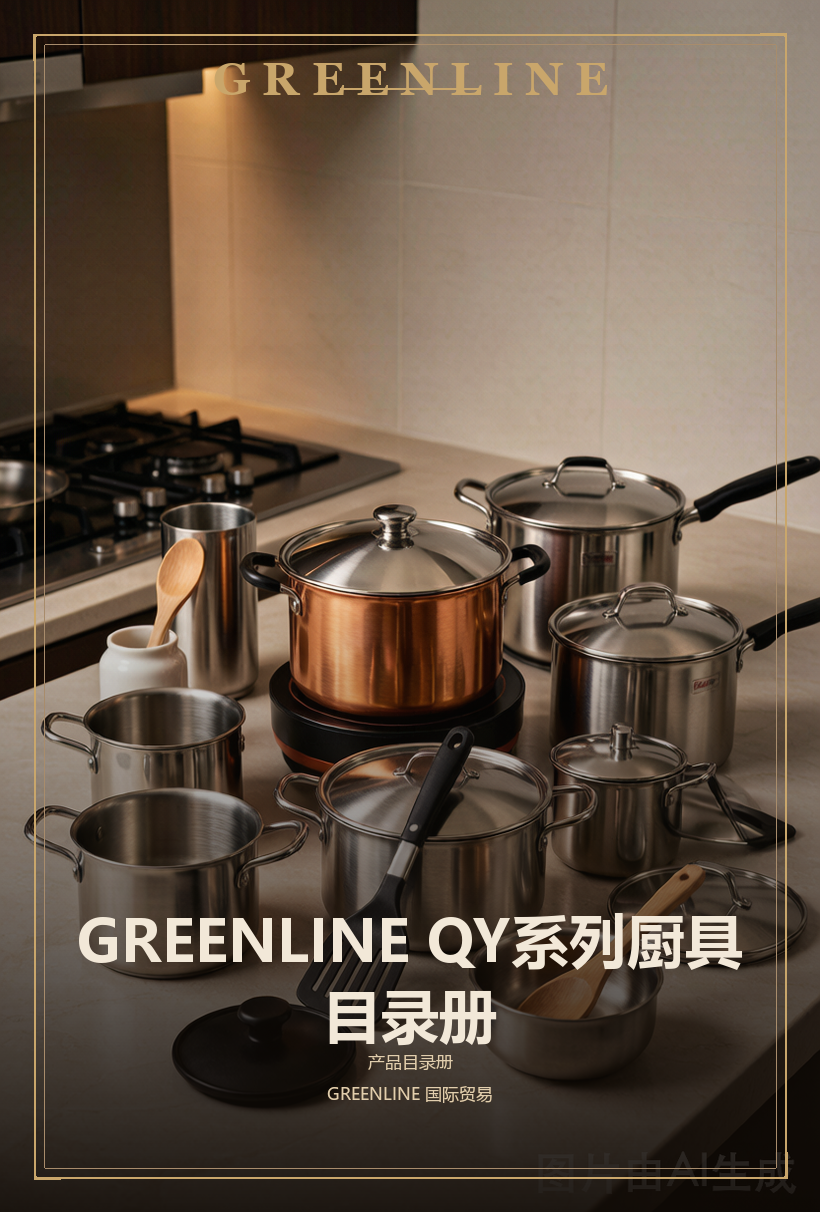
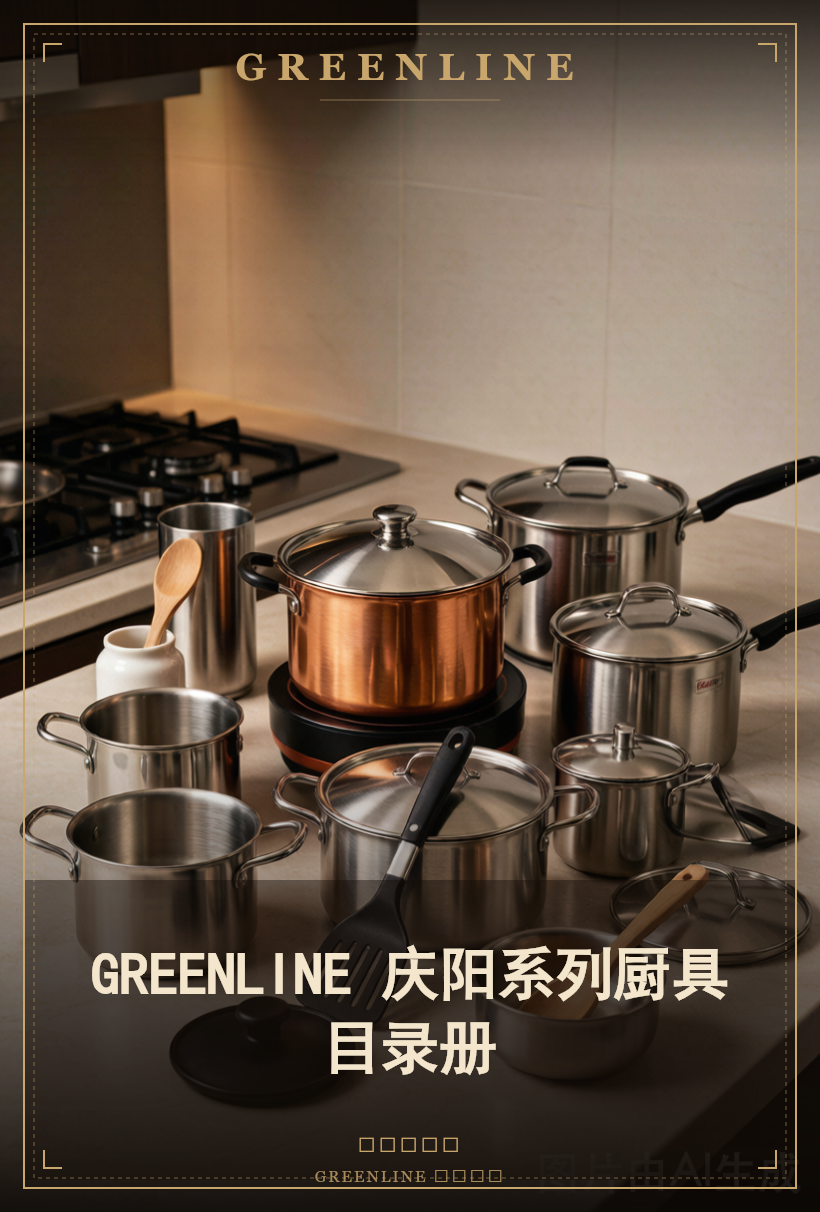
Revert qingyang kitchenware catalogue to original (undo QY branding from 40644b8)

diff --git a/catalog/qingyang/data.js b/catalog/qingyang/data.js
@@ -1,6 +1,6 @@
 window.FLIP = {
-  title_cn: "GREENLINE QY系列厨具目录册",
-  title_en: "GREENLINE QY Kitchenware Catalogue",
+  title_cn: "GREENLINE 庆阳系列厨具目录册",
+  title_en: "GREENLINE Qingyang Kitchenware Catalogue",
   total: 196,
   images: ["pages/full/p001.webp","pages/full/p002.webp","pages/full/p003.webp","pages/full/p004.webp","pages/full/p005.webp","pages/full/p006.webp","pages/full/p007.webp","pages/full/p008.webp","pages/full/p009.webp","pages/full/p010.webp","pages/full/p011.webp","pages/full/p012.webp","pages/full/p013.webp","pages/full/p014.webp","pages/full/p015.webp","pages/full/p016.webp","pages/full/p017.webp","pages/full/p018.webp","pages/full/p019.webp","pages/full/p020.webp","pages/full/p021.webp","pages/full/p022.webp","pages/full/p023.webp","pages/full/p024.webp","pages/full/p025.webp","pages/full/p026.webp","pages/full/p027.webp","pages/full/p028.webp","pages/full/p029.webp","pages/full/p030.webp","pages/full/p031.webp","pages/full/p032.webp","pages/full/p033.webp","pages/full/p034.webp","pages/full/p035.webp","pages/full/p036.webp","pages/full/p037.webp","pages/full/p038.webp","pages/full/p039.webp","pages/full/p040.webp","pages/full/p041.webp","pages/full/p042.webp","pages/full/p043.webp","pages/full/p044.webp","pages/full/p045.webp","pages/full/p046.webp","pages/full/p047.webp","pages/full/p048.webp","pages/full/p049.webp","pages/full/p050.webp","pages/full/p051.webp","pages/full/p052.webp","pages/full/p053.webp","pages/full/p054.webp","pages/full/p055.webp","pages/full/p056.webp","pages/full/p057.webp","pages/full/p058.webp","pages/full/p059.webp","pages/full/p060.webp","pages/full/p061.webp","pages/full/p062.webp","pages/full/p063.webp","pages/full/p064.webp","pages/full/p065.webp","pages/full/p066.webp","pages/full/p067.webp","pages/full/p068.webp","pages/full/p069.webp","pages/full/p070.webp","pages/full/p071.webp","pages/full/p072.webp","pages/full/p073.webp","pages/full/p074.webp","pages/full/p075.webp","pages/full/p076.webp","pages/full/p077.webp","pages/full/p078.webp","pages/full/p079.webp","pages/full/p080.webp","pages/full/p081.webp","pages/full/p082.webp","pages/full/p083.webp","pages/full/p084.webp","pages/full/p085.webp","pages/full/p086.webp","pages/full/p087.webp","pages/full/p088.webp","pages/full/p089.webp","pages/full/p090.webp","pages/full/p091.webp","pages/full/p092.webp","pages/full/p093.webp","pages/full/p094.webp","pages/full/p095.webp","pages/full/p096.webp","pages/full/p097.webp","pages/full/p098.webp","pages/full/p099.webp","pages/full/p100.webp","pages/full/p101.webp","pages/full/p102.webp","pages/full/p103.webp","pages/full/p104.webp","pages/full/p105.webp","pages/full/p106.webp","pages/full/p107.webp","pages/full/p108.webp","pages/full/p109.webp","pages/full/p110.webp","pages/full/p111.webp","pages/full/p112.webp","pages/full/p113.webp","pages/full/p114.webp","pages/full/p115.webp","pages/full/p116.webp","pages/full/p117.webp","pages/full/p118.webp","pages/full/p119.webp","pages/full/p120.webp","pages/full/p121.webp","pages/full/p122.webp","pages/full/p123.webp","pages/full/p124.webp","pages/full/p125.webp","pages/full/p126.webp","pages/full/p127.webp","pages/full/p128.webp","pages/full/p129.webp","pages/full/p130.webp","pages/full/p131.webp","pages/full/p132.webp","pages/full/p133.webp","pages/full/p134.webp","pages/full/p135.webp","pages/full/p136.webp","pages/full/p137.webp","pages/full/p138.webp","pages/full/p139.webp","pages/full/p140.webp","pages/full/p141.webp","pages/full/p142.webp","pages/full/p143.webp","pages/full/p144.webp","pages/full/p145.webp","pages/full/p146.webp","pages/full/p147.webp","pages/full/p148.webp","pages/full/p149.webp","pages/full/p150.webp","pages/full/p151.webp","pages/full/p152.webp","pages/full/p153.webp","pages/full/p154.webp","pages/full/p155.webp","pages/full/p156.webp","pages/full/p157.webp","pages/full/p158.webp","pages/full/p159.webp","pages/full/p160.webp","pages/full/p161.webp","pages/full/p162.webp","pages/full/p163.webp","pages/full/p164.webp","pages/full/p165.webp","pages/full/p166.webp","pages/full/p167.webp","pages/full/p168.webp","pages/full/p169.webp","pages/full/p170.webp","pages/full/p171.webp","pages/full/p172.webp","pages/full/p173.webp","pages/full/p174.webp","pages/full/p175.webp","pages/full/p176.webp","pages/full/p177.webp","pages/full/p178.webp","pages/full/p179.webp","pages/full/p180.webp","pages/full/p181.webp","pages/full/p182.webp","pages/full/p183.webp","pages/full/p184.webp","pages/full/p185.webp","pages/full/p186.webp","pages/full/p187.webp","pages/full/p188.webp","pages/full/p189.webp","pages/full/p190.webp","pages/full/p191.webp","pages/full/p192.webp","pages/full/p193.webp","pages/full/p194.webp","pages/full/p195.webp","pages/full/p196.webp"],
   thumbs: ["pages/thumbs/p001.webp","pages/thumbs/p002.webp","pages/thumbs/p003.webp","pages/thumbs/p004.webp","pages/thumbs/p005.webp","pages/thumbs/p006.webp","pages/thumbs/p007.webp","pages/thumbs/p008.webp","pages/thumbs/p009.webp","pages/thumbs/p010.webp","pages/thumbs/p011.webp","pages/thumbs/p012.webp","pages/thumbs/p013.webp","pages/thumbs/p014.webp","pages/thumbs/p015.webp","pages/thumbs/p016.webp","pages/thumbs/p017.webp","pages/thumbs/p018.webp","pages/thumbs/p019.webp","pages/thumbs/p020.webp","pages/thumbs/p021.webp","pages/thumbs/p022.webp","pages/thumbs/p023.webp","pages/thumbs/p024.webp","pages/thumbs/p025.webp","pages/thumbs/p026.webp","pages/thumbs/p027.webp","pages/thumbs/p028.webp","pages/thumbs/p029.webp","pages/thumbs/p030.webp","pages/thumbs/p031.webp","pages/thumbs/p032.webp","pages/thumbs/p033.webp","pages/thumbs/p034.webp","pages/thumbs/p035.webp","pages/thumbs/p036.webp","pages/thumbs/p037.webp","pages/thumbs/p038.webp","pages/thumbs/p039.webp","pages/thumbs/p040.webp","pages/thumbs/p041.webp","pages/thumbs/p042.webp","pages/thumbs/p043.webp","pages/thumbs/p044.webp","pages/thumbs/p045.webp","pages/thumbs/p046.webp","pages/thumbs/p047.webp","pages/thumbs/p048.webp","pages/thumbs/p049.webp","pages/thumbs/p050.webp","pages/thumbs/p051.webp","pages/thumbs/p052.webp","pages/thumbs/p053.webp","pages/thumbs/p054.webp","pages/thumbs/p055.webp","pages/thumbs/p056.webp","pages/thumbs/p057.webp","pages/thumbs/p058.webp","pages/thumbs/p059.webp","pages/thumbs/p060.webp","pages/thumbs/p061.webp","pages/thumbs/p062.webp","pages/thumbs/p063.webp","pages/thumbs/p064.webp","pages/thumbs/p065.webp","pages/thumbs/p066.webp","pages/thumbs/p067.webp","pages/thumbs/p068.webp","pages/thumbs/p069.webp","pages/thumbs/p070.webp","pages/thumbs/p071.webp","pages/thumbs/p072.webp","pages/thumbs/p073.webp","pages/thumbs/p074.webp","pages/thumbs/p075.webp","pages/thumbs/p076.webp","pages/thumbs/p077.webp","pages/thumbs/p078.webp","pages/thumbs/p079.webp","pages/thumbs/p080.webp","pages/thumbs/p081.webp","pages/thumbs/p082.webp","pages/thumbs/p083.webp","pages/thumbs/p084.webp","pages/thumbs/p085.webp","pages/thumbs/p086.webp","pages/thumbs/p087.webp","pages/thumbs/p088.webp","pages/thumbs/p089.webp","pages/thumbs/p090.webp","pages/thumbs/p091.webp","pages/thumbs/p092.webp","pages/thumbs/p093.webp","pages/thumbs/p094.webp","pages/thumbs/p095.webp","pages/thumbs/p096.webp","pages/thumbs/p097.webp","pages/thumbs/p098.webp","pages/thumbs/p099.webp","pages/thumbs/p100.webp","pages/thumbs/p101.webp","pages/thumbs/p102.webp","pages/thumbs/p103.webp","pages/thumbs/p104.webp","pages/thumbs/p105.webp","pages/thumbs/p106.webp","pages/thumbs/p107.webp","pages/thumbs/p108.webp","pages/thumbs/p109.webp","pages/thumbs/p110.webp","pages/thumbs/p111.webp","pages/thumbs/p112.webp","pages/thumbs/p113.webp","pages/thumbs/p114.webp","pages/thumbs/p115.webp","pages/thumbs/p116.webp","pages/thumbs/p117.webp","pages/thumbs/p118.webp","pages/thumbs/p119.webp","pages/thumbs/p120.webp","pages/thumbs/p121.webp","pages/thumbs/p122.webp","pages/thumbs/p123.webp","pages/thumbs/p124.webp","pages/thumbs/p125.webp","pages/thumbs/p126.webp","pages/thumbs/p127.webp","pages/thumbs/p128.webp","pages/thumbs/p129.webp","pages/thumbs/p130.webp","pages/thumbs/p131.webp","pages/thumbs/p132.webp","pages/thumbs/p133.webp","pages/thumbs/p134.webp","pages/thumbs/p135.webp","pages/thumbs/p136.webp","pages/thumbs/p137.webp","pages/thumbs/p138.webp","pages/thumbs/p139.webp","pages/thumbs/p140.webp","pages/thumbs/p141.webp","pages/thumbs/p142.webp","pages/thumbs/p143.webp","pages/thumbs/p144.webp","pages/thumbs/p145.webp","pages/thumbs/p146.webp","pages/thumbs/p147.webp","pages/thumbs/p148.webp","pages/thumbs/p149.webp","pages/thumbs/p150.webp","pages/thumbs/p151.webp","pages/thumbs/p152.webp","pages/thumbs/p153.webp","pages/thumbs/p154.webp","pages/thumbs/p155.webp","pages/thumbs/p156.webp","pages/thumbs/p157.webp","pages/thumbs/p158.webp","pages/thumbs/p159.webp","pages/thumbs/p160.webp","pages/thumbs/p161.webp","pages/thumbs/p162.webp","pages/thumbs/p163.webp","pages/thumbs/p164.webp","pages/thumbs/p165.webp","pages/thumbs/p166.webp","pages/thumbs/p167.webp","pages/thumbs/p168.webp","pages/thumbs/p169.webp","pages/thumbs/p170.webp","pages/thumbs/p171.webp","pages/thumbs/p172.webp","pages/thumbs/p173.webp","pages/thumbs/p174.webp","pages/thumbs/p175.webp","pages/thumbs/p176.webp","pages/thumbs/p177.webp","pages/thumbs/p178.webp","pages/thumbs/p179.webp","pages/thumbs/p180.webp","pages/thumbs/p181.webp","pages/thumbs/p182.webp","pages/thumbs/p183.webp","pages/thumbs/p184.webp","pages/thumbs/p185.webp","pages/thumbs/p186.webp","pages/thumbs/p187.webp","pages/thumbs/p188.webp","pages/thumbs/p189.webp","pages/thumbs/p190.webp","pages/thumbs/p191.webp","pages/thumbs/p192.webp","pages/thumbs/p193.webp","pages/thumbs/p194.webp","pages/thumbs/p195.webp","pages/thumbs/p196.webp"],

diff --git a/catalog/qingyang/index.html b/catalog/qingyang/index.html
@@ -184,8 +184,8 @@
     <div class="brand">
       <div class="logo">GREENLINE</div>
       <div class="title-group">
-        <div class="title-main">GREENLINE QY系列厨具目录册</div>
-        <div class="title-sub">GREENLINE QY Kitchenware Catalogue</div>
+        <div class="title-main">GREENLINE 庆阳系列厨具目录册</div>
+        <div class="title-sub">GREENLINE Qingyang Kitchenware Catalogue</div>
       </div>
     </div>
     <div class="controls">
